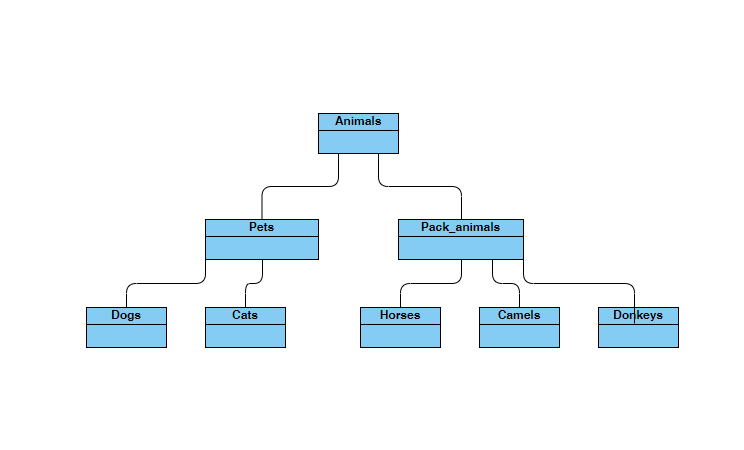
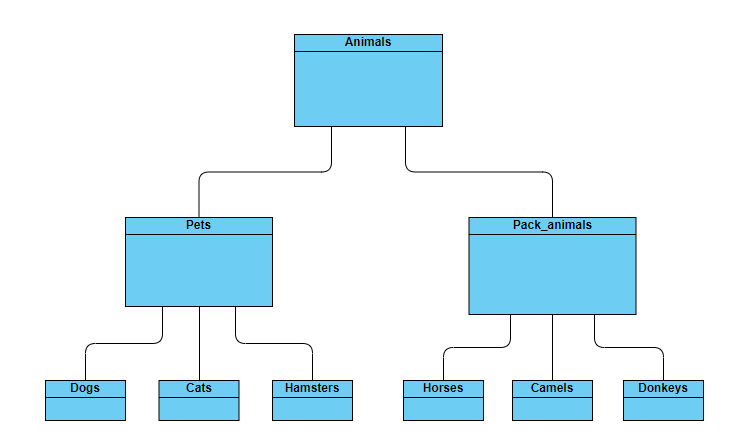
Добавлена java

diff --git a/java/main.java b/java/main.java
@@ -1,0 +1,91 @@
+
+import java.util.Scanner;
+
+public class main {
+    public static void main(String[] args) {
+        AnimalRegistry registry = new AnimalRegistry();
+        Scanner scanner = new Scanner(System.in);
+
+        while (true) {
+            registry.showMenu();
+            System.out.print("Enter your choice: ");
+            int choice = scanner.nextInt();
+
+            switch (choice) {
+                case 1:
+                    System.out.print("Enter animal name: ");
+                    String name = scanner.next();
+                    System.out.print("Enter animal command: ");
+                    String command = scanner.next();
+                    System.out.print("Is it a (1) Domestic or (2) Livestock animal? Enter 1 or 2: ");
+                    int typeChoice = scanner.nextInt();
+
+                    if (typeChoice == 1) {
+                        registry.addAnimal(new Domestic(name, command));
+                    } else if (typeChoice == 2) {
+                        registry.addAnimal(new Livestock(name, command));
+                    } else {
+                        System.out.println("Invalid choice. Please choose 1 or 2.");
+                    }
+                    break;
+                case 2:
+                    System.out.print("Enter animal name to determine its class: ");
+                    String animalName = scanner.next();
+                    Animal targetAnimal = null;
+                    for (Animal animal : registry.animals) {
+                        if (animal.getName().equals(animalName)) {
+                            targetAnimal = animal;
+                            break;
+                        }
+                    }
+                    if (targetAnimal != null) {
+                        System.out.println(targetAnimal.getName() + " is a " + registry.determineClass(targetAnimal)
+                                + " animal.");
+                    } else {
+                        System.out.println("Animal not found.");
+                    }
+                    break;
+                case 3:
+                    System.out.print("Enter animal name to list its commands: ");
+                    String commandAnimalName = scanner.next();
+                    Animal commandAnimal = null;
+                    for (Animal animal : registry.animals) {
+                        if (animal.getName().equals(commandAnimalName)) {
+                            commandAnimal = animal;
+                            break;
+                        }
+                    }
+                    if (commandAnimal != null) {
+                        registry.listCommands(commandAnimal);
+                    } else {
+                        System.out.println("Animal not found.");
+                    }
+                    break;
+                case 4:
+                    System.out.print("Enter animal name to teach new commands: ");
+                    String teachAnimalName = scanner.next();
+                    Animal teachAnimal = null;
+                    for (Animal animal : registry.animals) {
+                        if (animal.getName().equals(teachAnimalName)) {
+                            teachAnimal = animal;
+                            break;
+                        }
+                    }
+                    if (teachAnimal != null) {
+                        System.out.print("Enter new commands to teach: ");
+                        String newCommands = scanner.next();
+                        registry.teachCommands(teachAnimal, newCommands);
+                    } else {
+                        System.out.println("Animal not found.");
+                    }
+                    break;
+                case 5:
+                    System.out.println("Exiting the Animal Registry. Goodbye!");
+                    System.exit(0);
+                    break;
+                default:
+                    System.out.println("Invalid choice. Please choose a number between 1 and 5.");
+            }
+        }
+    }
+}

diff --git a/java/AnimalRegistry.java b/java/AnimalRegistry.java
@@ -1,0 +1,48 @@
+import java.util.ArrayList;
+import java.util.List;
+
+public class AnimalRegistry {
+    List<Animal> animals = new ArrayList<>();
+    private Counter counter = new Counter();
+
+    public void addAnimal(Animal animal) {
+        try (Counter c = new Counter()) {
+            c.openResource();
+            counter.add(); // Увеличиваем счетчик при добавлении нового животного
+            animals.add(animal);
+            System.out.println("New animal added: " + animal.getName());
+        } catch (Exception e) {
+            e.printStackTrace();
+        }
+    }
+
+    public String determineClass(Animal animal) {
+        if (animal instanceof Domestic) {
+            return "Domestic";
+        } else if (animal instanceof Livestock) {
+            return "Livestock";
+        } else {
+            return "Unknown";
+        }
+    }
+
+    public void listCommands(Animal animal) {
+        System.out.println("List of commands for " + animal.getName() + ": " + animal.getCommand());
+    }
+
+    public void teachCommands(Animal animal, String newCommands) {
+        String currentCommands = animal.getCommand();
+        animal.setCommand(currentCommands + ", " + newCommands);
+        System.out.println(animal.getName() + " has learned new commands: " + newCommands);
+    }
+
+    public void showMenu() {
+        System.out.println("\n===== Animal Registry Menu =====");
+        System.out.println("1. Add new animal");
+        System.out.println("2. Determine animal class");
+        System.out.println("3. List commands for an animal");
+        System.out.println("4. Teach new commands to an animal");
+        System.out.println("5. Exit");
+        System.out.println("===============================\n");
+    }
+}

diff --git a/java/Counter.java b/java/Counter.java
@@ -1,0 +1,32 @@
+class Counter implements AutoCloseable {
+    private int count = 0;
+    private boolean resourceOpened = false;
+
+    public void add() {
+        if (!resourceOpened) {
+            throw new IllegalStateException("Counter resource not opened.");
+        }
+        count++;
+    }
+
+    @Override
+    public void close() throws Exception {
+        if (!resourceOpened) {
+            throw new IllegalStateException("Counter resource not opened.");
+        }
+
+        if (count > 0) {
+            throw new IllegalStateException("Counter value is not reset.");
+        }
+
+        resourceOpened = false;
+    }
+
+    public void openResource() {
+        resourceOpened = true;
+    }
+
+    public int getCount() {
+        return count;
+    }
+}

diff --git a/java/Animal.java b/java/Animal.java
@@ -1,12 +1,10 @@
-public class Animal {
+class Animal {
     private String name;
     private String command;
-    private String birthDate;
 
-    public Animal(String name, String command, String birthDate) {
+    public Animal(String name, String command) {
         this.name = name;
         this.command = command;
-        this.birthDate = birthDate;
     }
 
     public String getName() {
@@ -15,10 +13,6 @@ public class Animal {
 
     public String getCommand() {
         return command;
-    }
-
-    public String getBirthDate() {
-        return birthDate;
     }
 
     public void setCommand(String command) {

diff --git a/java/Livestock.java b/java/Livestock.java
@@ -1,0 +1,5 @@
+class Livestock extends Animal {
+    public Livestock(String name, String command) {
+        super(name, command);
+    }
+}

diff --git a/java/Domestic.java b/java/Domestic.java
@@ -1,0 +1,5 @@
+class Domestic extends Animal {
+    public Domestic(String name, String command) {
+        super(name, command);
+    }
+}

diff --git a/README.md b/README.md
@@ -1,4 +1,62 @@
+# Итоговая контрольная работа по блоку специализация #
+### Урок 2. Итоговая контрольная работа
+#
+1. Используя команду cat в терминале операционной системы Linux, создать
+два файла Домашние животные (заполнив файл собаками, кошками,
+хомяками) и Вьючные животными заполнив файл Лошадьми, верблюдами и
+ослы), а затем объединить их. Просмотреть содержимое созданного файла.
+Переименовать файл, дав ему новое имя (Друзья человека).
+2. Создать директорию, переместить файл туда.
+3. Подключить дополнительный репозиторий MySQL. Установить любой пакет
+из этого репозитория.
+4. Установить и удалить deb-пакет с помощью dpkg.
+5. Выложить историю команд в терминале ubuntu
+
+[История команд](linux/command_history.txt)\
+[Весь лог командлайна](linux/log_cmd.txt)\
+[Скрины лога](img/.)
+
+
+---
+6. Нарисовать диаграмму, в которой есть класс родительский класс, домашние
+животные и вьючные животные, в составы которых в случае домашних
+животных войдут классы: собаки, кошки, хомяки, а в класс вьючные животные
+войдут: Лошади, верблюды и ослы.
+
 ![Alt text](img/image.png)
+
+---
+7. В подключенном MySQL репозитории создать базу данных “Друзья
+человека”
+8. Создать таблицы с иерархией из диаграммы в БД
+9. Заполнить низкоуровневые таблицы именами(животных), командами
+которые они выполняют и датами рождения
+10.  Удалив из таблицы верблюдов, т.к. верблюдов решили перевезти в другой
+питомник на зимовку. Объединить таблицы лошади, и ослы в одну таблицу.
+11. Создать новую таблицу “молодые животные” в которую попадут все
+животные старше 1 года, но младше 3 лет и в отдельном столбце с точностью
+до месяца подсчитать возраст животных в новой таблице
+12.  Объединить все таблицы в одну, при этом сохраняя поля, указывающие на
+прошлую принадлежность к старым таблицам.
+13. Создать класс с Инкапсуляцией методов и наследованием по диаграмме.
+---
+14.  Написать программу, имитирующую работу реестра домашних животных.
+В программе должен быть реализован следующий функционал:\
+    1. Завести новое животное\
+    2. определять животное в правильный класс\
+    3. увидеть список команд, которое выполняет животное\
+    4. обучить животное новым командам\
+    5. Реализовать навигацию по меню. 
+   
+1.   Создайте класс Счетчик, у которого есть метод add(), увеличивающий̆
+значение внутренней int переменной̆на 1 при нажатие “Завести новое
+животное” Сделайте так, чтобы с объектом такого типа можно было работать в
+блоке try-with-resources. Нужно бросить исключение, если работа с объектом
+типа счетчик была не в ресурсном try и/или ресурс остался открыт. Значение
+считать в ресурсе try, если при заведения животного заполнены все поля.\
+[Код Java](java/main.java)
+---
+
 ![Alt text](img/image-1.png)
 ![Alt text](img/image-2.png)
 ![Alt text](img/image-3.png)
